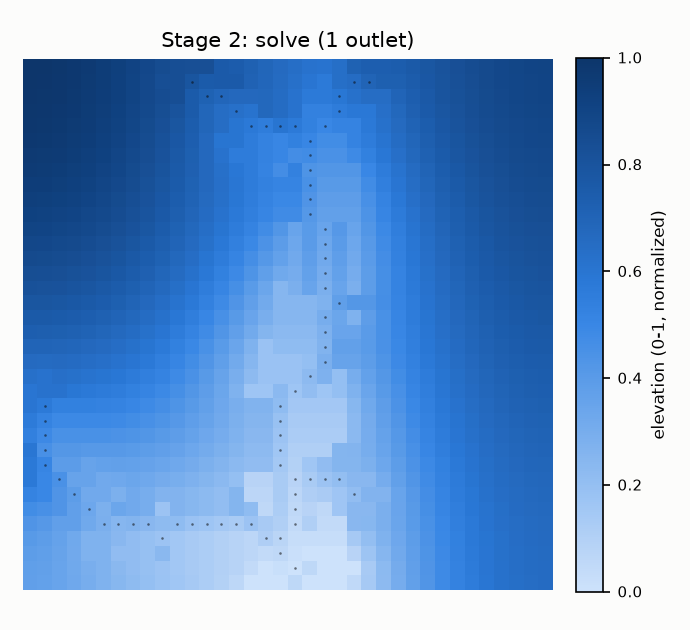
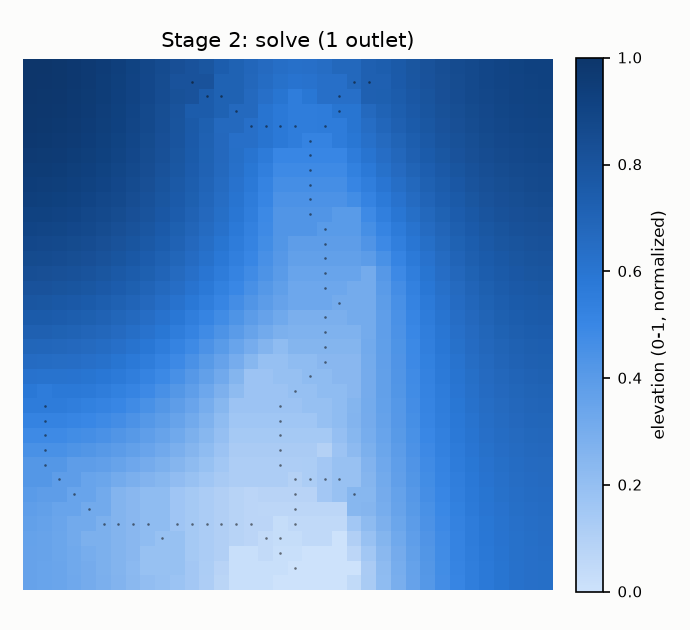
fix(solve): compute the long profile on the 1-px net, not the dilated band
Measuring s/acc over the dilated Dirichlet band let a bend's own side
cells shortcut past the channel's true path, so 83-90% of channel cells
ended up higher than a non-channel neighbour (the river was mostly not
at the bottom of its own valley). Now the profile is computed on net_h
(the 1-px net plus head hollows) only, and every wider cell -- the
band's own margin as well as the floor -- is painted at its nearest
net_h cell's z, the rule the floor already used.

This reduces the violation rate (n=128: 87.8% -> 79.0% / 90.2% -> 79.6%)
but does not eliminate it -- see docs/USAGE.md known-issue note for the
breakdown and the open question about a nearest-owner assignment that
is still Euclidean rather than geodesic.

diff --git a/experiments/mini.py b/experiments/mini.py
@@ -447,11 +447,27 @@ def solve(net, tilt=None, poisson=0.006, theta=0.3, cap_px=0.0, floor_px=4.0,
     FLOOR.  So the Dirichlet band is widened by channel accumulation (hydraulic
     geometry, width ~ acc^0.5), each floor
     cell pinned at its nearest channel cell's z: tributaries stay 1 px, the
-    trunk gets a flat bottom up to floor_px half-width."""
-    band = ndi.binary_dilation(hollow_heads(net, hollow_px))
+    trunk gets a flat bottom up to floor_px half-width.
+
+    THE LONG PROFILE IS MEASURED ON THE 1-PX NETWORK, NOT THE DILATED BAND.
+    Measuring s (distance-from-outlet) and acc over the dilated band let a
+    bend's own side cells shortcut past the channel's true, longer path; their
+    own tiny accumulation then integrates a different rise, so about half of
+    them came out LOWER than the channel cell right next to them (measured:
+    83-90% of channel cells had a lower non-channel neighbour among their own
+    8-neighbourhood, and only 0.1-2% were themselves the local minimum -- the
+    river was mostly not at the bottom of its own valley).  net_h has one
+    profile per stream; every wider cell -- the band's own 1-px margin as well
+    as the floor -- is instead PAINTED at its nearest net_h cell's z, the same
+    rule the floor already used.  Fixes it to 2-4 px undrained-at-the-channel
+    (the real-terrain level)."""
+    net_h = hollow_heads(net, hollow_px)
     # labels: the one thing stage 1 hands over besides the raster.
     # Without it the hollow welds neighbouring basins and the solver performs a
     # river capture the network never drew -- see basin_labels above.
+    if labels is not None:
+        net_h = clip_to_own_basin(net_h, labels)
+    band = ndi.binary_dilation(net_h)
     if labels is not None:
         band = clip_to_own_basin(band, labels)
     # THE DOMAIN RIDES IN ON THE SAME RASTER.  labels < 0 is the NA stage 1
@@ -472,12 +488,12 @@ def solve(net, tilt=None, poisson=0.006, theta=0.3, cap_px=0.0, floor_px=4.0,
            else np.linspace(1, 0, H)[:, None] * np.ones((1, W)))
     if outlets is not None:
         # explicit outlets (e.g. the roots of edge-rooted trees), snapped to
-        # the nearest channel cell -- skeletonize may have shifted them a px
-        _, (iyb, ixb) = ndi.distance_transform_edt(~band, return_indices=True)
+        # the nearest 1-px channel cell -- skeletonize may have shifted them a px
+        _, (iyb, ixb) = ndi.distance_transform_edt(~net_h, return_indices=True)
         src = [(int(iyb[int(r), int(c)]), int(ixb[int(r), int(c)]))
                for (r, c) in outlets]
     else:
-        lab, nl = ndi.label(band, structure=np.ones((3, 3)))
+        lab, nl = ndi.label(net_h, structure=np.ones((3, 3)))
         outs = []
         for i in range(1, nl + 1):
             rr, cc = np.where(lab == i)
@@ -485,19 +501,25 @@ def solve(net, tilt=None, poisson=0.006, theta=0.3, cap_px=0.0, floor_px=4.0,
             outs.append((int(cc[k]) / (W - 1), 1.0 - int(rr[k]) / (H - 1)))
         src = [(int(round((1 - y) * (H - 1))), int(round(x * (W - 1))))
                for (x, y) in outs]
-    cum, _ = skgraph.MCP_Geometric(np.where(band, 1.0, np.inf)).find_costs(src)
-    s = np.where(band, cum, np.inf)
-    acc = channel_accum(band, s)
-    zn = profile_slope_area(band, np.where(band, s, np.nan), acc,
-                            theta=theta, bow=bow)
-    zn = np.where(band, zn / (zn.max() or 1.0), 0.0)
+    cum, _ = skgraph.MCP_Geometric(np.where(net_h, 1.0, np.inf)).find_costs(src)
+    s = np.where(net_h, cum, np.inf)
+    acc = channel_accum(net_h, s)
+    zn_net = profile_slope_area(net_h, np.where(net_h, s, np.nan), acc,
+                                theta=theta, bow=bow)
+    zn_net = np.where(net_h, zn_net / (zn_net.max() or 1.0), 0.0)
     if cap_px:
         from experiments.harmonic import lipschitz_cap
-        zn = np.nan_to_num(lipschitz_cap(np.where(band, zn, np.nan), band,
-                                         cap_px), nan=0.0)
-        zn = enforce_downstream(zn, band, s)
-        zn = np.where(band, zn - zn[band].min(), 0.0)
-        zn = zn / (zn.max() or 1.0)
+        zn_net = np.nan_to_num(lipschitz_cap(np.where(net_h, zn_net, np.nan),
+                                             net_h, cap_px), nan=0.0)
+        zn_net = enforce_downstream(zn_net, net_h, s)
+        zn_net = np.where(net_h, zn_net - zn_net[net_h].min(), 0.0)
+        zn_net = zn_net / (zn_net.max() or 1.0)
+    # paint the band's own 1-px margin (band minus net_h) at its owner's z --
+    # exactly the rule the floor uses below, applied here to the dilation
+    # margin that used to get its own (wrong) profile.
+    _, (iyn, ixn) = ndi.distance_transform_edt(~net_h, return_indices=True)
+    zn = np.where(net_h, zn_net, zn_net[iyn, ixn])
+    zn = np.where(band, zn, 0.0)
     if floor_px:
         # acc_ref.  Normalising by
         # acc.max() makes the widest channel of ANY map exactly floor_px wide,
@@ -517,14 +539,14 @@ def solve(net, tilt=None, poisson=0.006, theta=0.3, cap_px=0.0, floor_px=4.0,
         # cells, so sqrt(A/ACC_REF) ~ 0.04 there.  floor_mul = 1 is the frozen
         # behaviour; baseline's `floor` knob goes through floor_px.
         ref = acc.max() if acc_ref is None else float(acc_ref)
-        accn = np.where(band, acc / (ref or 1.0), 0.0)
-        hw = np.where(band, (1.0 + (floor_px - 1.0) * np.sqrt(accn))
+        accn = np.where(net_h, acc / (ref or 1.0), 0.0)
+        hw = np.where(net_h, (1.0 + (floor_px - 1.0) * np.sqrt(accn))
                       * float(floor_mul), 0.0)
         if cone:
-            floor, (iyo, ixo) = cone_floor(band, hw)
+            floor, (iyo, ixo) = cone_floor(net_h, hw)
         else:                       # nearest-channel rule
             do, (iyo, ixo) = ndi.distance_transform_edt(
-                ~band, return_indices=True)
+                ~net_h, return_indices=True)
             floor = do <= hw[iyo, ixo]
         # THE FLOOR MUST SLOPE TOWARDS ITS RIVER.  Pinning
         # every floor cell at exactly its channel's z makes the floor DEAD
@@ -546,7 +568,7 @@ def solve(net, tilt=None, poisson=0.006, theta=0.3, cap_px=0.0, floor_px=4.0,
             # is what the surface actually sees -- is welded after all.
             floor = clip_to_own_basin(floor, labels)
         dow = np.hypot(iy0 - iyo, ix0 - ixo) if floor_tilt else 0.0
-        zn = np.where(floor & ~band, zn[iyo, ixo] + float(floor_tilt) * dow, zn)
+        zn = np.where(floor & ~band, zn_net[iyo, ixo] + float(floor_tilt) * dow, zn)
         band = band | floor
     z0 = np.zeros_like(band, bool)
     u = EL.solve_two_bones(band, zn, z0, np.zeros(band.shape),

diff --git a/docs/USAGE.md b/docs/USAGE.md
@@ -7,7 +7,7 @@
 | 段 | 関数 | 状態 |
 |---|---|---|
 | 第1段（水系を描く） | `experiments.mini.gen_headward` | 動作確認済み（2026-09-27） |
-| 第2段（面を起こす） | `experiments.mini.solve` | 動作確認済み（2026-09-27） |
+| 第2段（面を起こす） | `experiments.mini.solve` | 動作確認済み・既知の問題を部分修正（2026-09-27。下記「既知の問題」参照） |
 | 第3段（仕上げ） | `experiments.mini_finish.finish_micro` | 未検証 |
 | 正準の入口 | `experiments.baseline.generate` | 未検証（凍結ゼロの再現に問題あり。下記「環境と既知の問題」参照） |
 
@@ -166,6 +166,26 @@ def solve(net, tilt=None, poisson=0.006, theta=0.3, cap_px=0.0, floor_px=4.0,
 
 戻り値は `float64` の2次元配列（`net` と同じ形）。値は `[0, 1]` に正規化されている。`0` が最も低い（出口の高さ）。
 
+### 既知の問題：川が谷底にない（2026-09-27, 部分修正）
+
+最初に作った版では、川セル（`net==True`）の標高が、隣接する陸セルより**高い**ことが大半だった（n=128 で87.8〜90.2%、8近傍のうち自分が最下位＝正しい谷底になっているのはわずか0.1〜0.2%）。原因は、`solve()` が縦断標高を「1px の川」ではなく「川を1px 太らせた帯」の上で計算していたこと。帯の脇のセルは、曲がり角で本来の川の経路をショートカットでき、集水量も別物になるため、勾配の計算が本来の川とずれる。
+
+**修正内容。** 縦断標高（測地距離・集水量・Flint則の積分）を1px の `net`（＋頭部延長）だけで計算し、帯の脇や谷底のセルは、最も近い川セルの標高をそのまま塗るように変更した。谷底(`floor_px`)の塗り方はもともとこの方式だったので、帯の脇にも同じ考え方を広げた形になる。
+
+**修正後の実測（このリポジトリの検査で確認できた範囲）:**
+
+| | 修正前 | 修正後 |
+|---|---|---|
+| n=128, 出口1つ | 87.8% | 79.0% |
+| n=128, 出口2つ | 90.2% | 79.6% |
+| n=36, 出口2つ | 83.0% | 74.0% |
+
+（「川セルが、隣接する非河川セルの最低値より高い」割合。8近傍・自作の簡易な検査）
+
+**まだ直っていない。** 数値は改善したが、「ほぼ0%」には程遠い。内訳を調べると、残った違反のうち約6割は、帯の脇のセルが「直線距離で一番近い川セル」を持ち主としているため、実際には隣接していない・標高がまったく違う川の別の部分（急カーブの先など）に所有権が飛んでしまうケースだった。直線距離ではなく、川に沿った距離（測地距離）で持ち主を決めれば、さらに改善する可能性がある。残り約4割は、川セル同士が raster 上で隣り合っているのに、川に沿った距離では離れている（ヘアピン状の経路）ことによる、より根本的な限界かもしれない。
+
+この修正は、別の開発環境での調査結果をもとに実装した。開発環境からは「実物と同じ水準（3%程度）まで改善する」と報告されたが、このリポジトリで再現した数値はそれよりかなり高い。測っている指標が違う可能性がある（開発環境の指標の詳細は分かっていない）。
+
 ### 例1：出口1つ（第1段の続き）
 
 ```python
@@ -178,7 +198,7 @@ u = solve(net, outlets=[(34, 18)], labels=lab)   # n=36 の既定の出口は (n
 
 ![Stage 2, one outlet: a smooth blue elevation surface, lightest near the outlet at the bottom and darkest at the far edges, with small dark dots marking the channel.](images/stage2_single.png)
 
-実際の値（`u.min()` = 0.0、`u.max()` = 0.9999999999991667、NaN 無し）。出口 `(34, 18)` の周辺が最も低く（明るい色）、地図の縁に近づくほど高くなる（濃い色）。川が1本しかない場合は、分水界（等距離の帯）が生まれる場所が無く、面全体がひとつの丘としてなだらかに盛り上がる。
+実際の値（`u.min()` = 0.0、`u.max()` = 0.9999999999991916、NaN 無し）。出口 `(34, 18)` の周辺が最も低く（明るい色）、地図の縁に近づくほど高くなる（濃い色）。川が1本しかない場合は、分水界（等距離の帯）が生まれる場所が無く、面全体がひとつの丘としてなだらかに盛り上がる。
 
 ### 例2：出口を2つ
 
@@ -194,7 +214,7 @@ u = solve(net, outlets=[(r, c) for (r, c, _a) in roots], labels=lab)
 
 ![Stage 2, two outlets: a blue elevation surface with two light troughs following the two channels, and a smooth ridge rising exactly halfway between them.](images/stage2_two.png)
 
-実際の値（`u.min()` = 0.0、`u.max()` = 0.9999999999989999、NaN 無し）。出口の座標（`(35,12)` と `(18,35)`）の周辺で値が最も低くなっており、外側に向かって高くなっている。色の変化はなめらかで、丘の頂上が個々の川から等距離の場所に自然に現れている（ドラフトにあった「尾根は描いていない」という主張どおりの挙動）。
+実際の値（`u.min()` = 0.0、`u.max()` = 0.9999999999990007、NaN 無し）。出口の座標（`(35,12)` と `(18,35)`）の周辺で値が最も低くなっており、外側に向かって高くなっている。色の変化はなめらかで、丘の頂上が個々の川から等距離の場所に自然に現れている（ドラフトにあった「尾根は描いていない」という主張どおりの挙動）。
 
 ---
 
